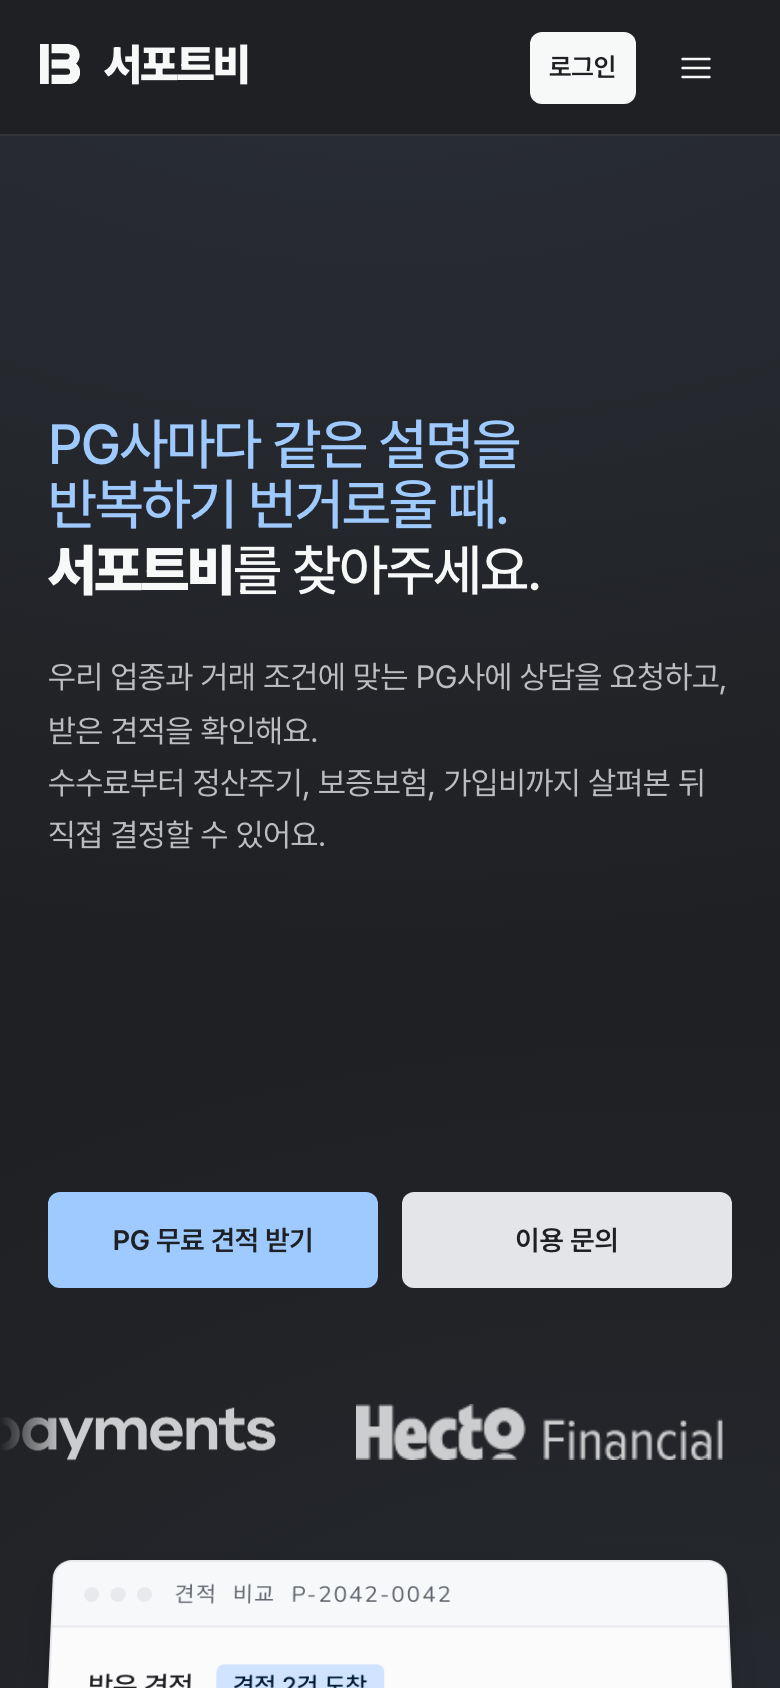
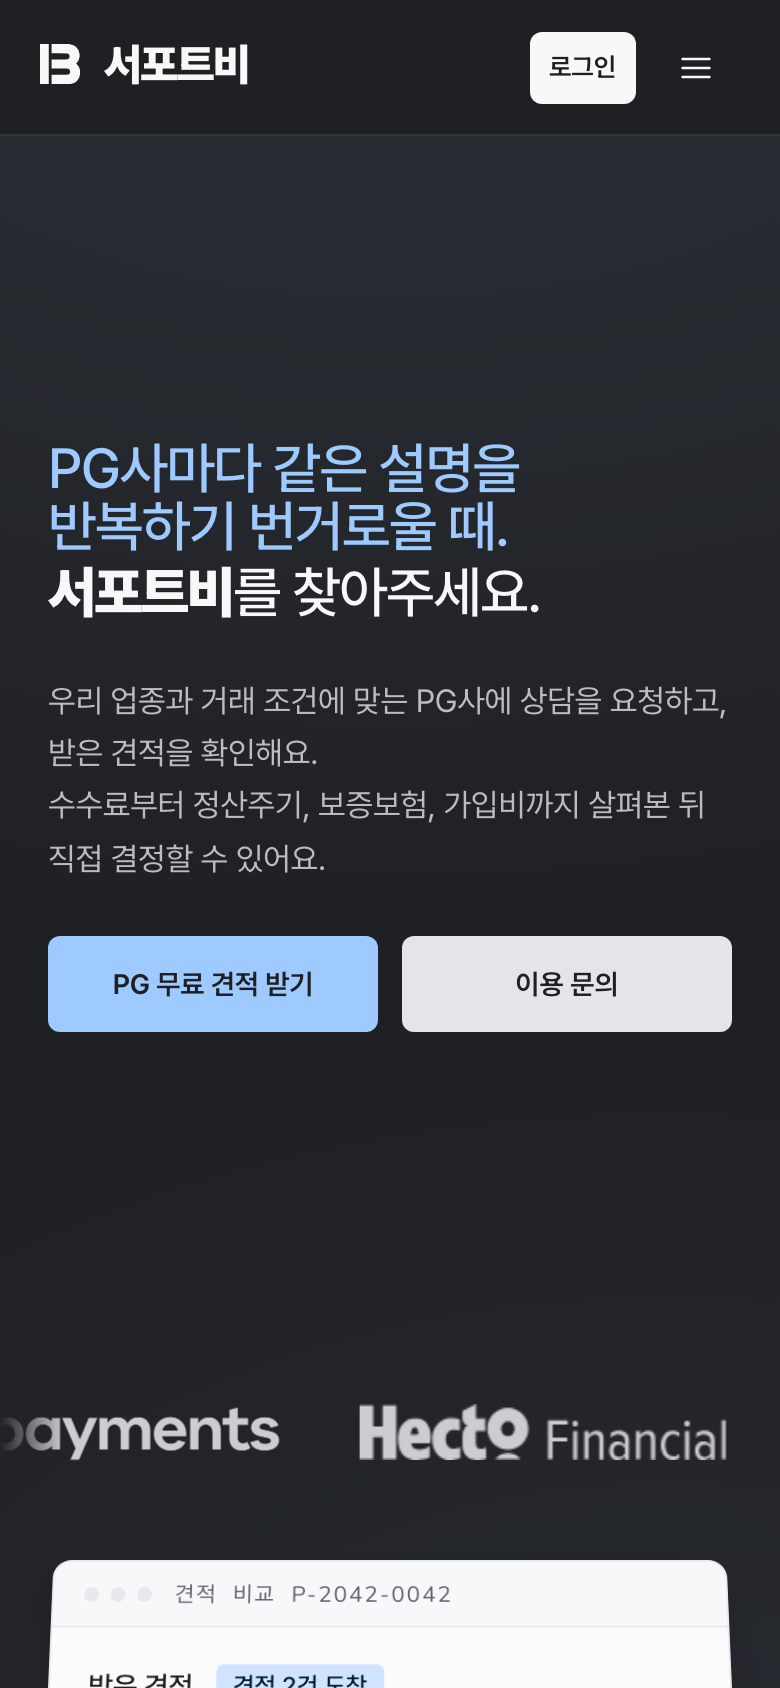
fix(landing): restore original hero action placement

diff --git a/components/landing/hero/HeroPinnedScene.tsx b/components/landing/hero/HeroPinnedScene.tsx
@@ -34,8 +34,6 @@ export type HeroContent = {
   headline?: ReactNode;
   subCopy?: ReactNode;
   cta?: ReactNode;
-  /** 구매사는 제목·설명 아래에 별도 CTA 띠를, PG는 기존 인라인 CTA를 사용한다. */
-  ctaPlacement?: 'inline' | 'below-content';
   productWindow?: ReactNode;
   /** 제품 창 바로 위 리드 카피(선택). 라이트 리빌 때 창과 함께 페이드+라이즈로 자리잡는다.
    *  PG 히어로만 주입 — 구매사 히어로는 미지정(렌더 안 함). */
@@ -67,7 +65,6 @@ export function HeroPinnedScene({
   headline = <HeroKineticHeadline rollingPosition="before" />,
   subCopy = BUYER_SUBCOPY,
   cta = BUYER_CTA,
-  ctaPlacement = 'inline',
   productWindow = <HeroProductWindow />,
   productLead,
   partners,
@@ -156,25 +153,6 @@ export function HeroPinnedScene({
   const cueOpacity = useTransform(scrollYProgress, [0, 0.06, 1], [1, 0, 0]);
 
   const [magnetRef, magnetX, magnetY] = useMagneticHover<HTMLSpanElement>(6);
-  const ctaBlock = (
-    <motion.div
-      style={{ y: ctaY, opacity: ctaOpacity, pointerEvents: ctaPointerEvents }}
-      className={ctaPlacement === 'below-content' ? styles.actionBar : undefined}
-    >
-      <motion.div
-        initial={{ opacity: 0 }}
-        animate={{ opacity: 1 }}
-        transition={{ duration: 0.36, delay: 0.5, ease: EASE_OUT }}
-        className={ctaPlacement === 'below-content' ? styles.actionBarInner : 'flex flex-col items-start gap-[var(--s-4)]'}
-      >
-        {ctaPlacement === 'below-content' ? cta : (
-          <motion.span ref={magnetRef} style={{ x: magnetX, y: magnetY }} className="inline-block">
-            {cta}
-          </motion.span>
-        )}
-      </motion.div>
-    </motion.div>
-  );
 
   // 헤더 톤 스위치 — 다크 레이어 페이드(0.55–0.85) 중간점을 지나면 헤더가 라이트 톤으로 복귀.
   // 마운트 직후 동기화가 있어 앵커 딥링크(#pricing 등)로 진입해도 헤더가 올바른 톤에서 시작한다.
@@ -225,10 +203,23 @@ export function HeroPinnedScene({
             </motion.p>
           </motion.div>
 
-          {ctaPlacement === 'inline' && ctaBlock}
+          <motion.div style={{ y: ctaY, opacity: ctaOpacity, pointerEvents: ctaPointerEvents }}>
+            <motion.div
+              initial={{ opacity: 0 }}
+              animate={{ opacity: 1 }}
+              transition={{ duration: 0.36, delay: 0.5, ease: EASE_OUT }}
+              className="flex flex-col items-start gap-[var(--s-4)]"
+            >
+              <motion.span
+                ref={magnetRef}
+                style={{ x: magnetX, y: magnetY }}
+                className="inline-block w-full sm:w-auto"
+              >
+                {cta}
+              </motion.span>
+            </motion.div>
+          </motion.div>
         </div>
-
-        {ctaPlacement === 'below-content' && ctaBlock}
 
         {partners ? (
           <>

diff --git a/components/landing/hero/HeroPinnedScene.module.css b/components/landing/hero/HeroPinnedScene.module.css
@@ -8,18 +8,6 @@
   gap: clamp(16px, 3svh, 32px);
 }
 .partners { width: 100%; pointer-events: auto; }
-.actionBar {
-  position: relative;
-  z-index: 20;
-  flex-shrink: 0;
-  width: 100%;
-}
-.actionBarInner {
-  width: 100%;
-  max-width: 1080px;
-  margin-inline: auto;
-  padding: 32px;
-}
 .actions { display: flex; gap: 24px; }
 .primaryAction {
   display: inline-flex;
@@ -47,7 +35,6 @@
 }
 @media (max-width: 767px) {
   .withPartners .content { padding-left: 24px; padding-right: 24px; }
-  .actionBarInner { padding: 24px; }
 }
 @media (max-width: 639px) {
   .actions { gap: 12px; }

diff --git a/components/landing/LandingHero.tsx b/components/landing/LandingHero.tsx
@@ -54,7 +54,7 @@ export function LandingHero({ nav }: { nav?: ReactNode }) {
       <main className="flex-1 pt-[var(--landing-header-height)]">
 
         {/* ── Hero (client: 타이핑·애니메이션·landing-scroll 이펙트) ── */}
-        <LandingHeroSection ctaPlacement="below-content" partners={<LandingPartnerMarquee />} />
+        <LandingHeroSection partners={<LandingPartnerMarquee />} />
 
         {/* ── Problem: 세로 질문을 읽으며 현재 위치 강조 ── */}
         <section className={sectionCls}>

diff --git a/components/landing/__tests__/LandingHeroSection.test.tsx b/components/landing/__tests__/LandingHeroSection.test.tsx
@@ -34,7 +34,7 @@ describe('LandingHeroSection', () => {
     const previous = window.ChannelIO;
     window.ChannelIO = showMessenger;
     try {
-      render(<LandingHeroSection ctaPlacement="below-content" />);
+      render(<LandingHeroSection />);
       fireEvent.click(screen.getByRole('button', { name: '이용 문의' }));
       expect(showMessenger).toHaveBeenCalledWith('showMessenger');
       expect(screen.queryByRole('link', { name: '데모 체험하기' })).not.toBeInTheDocument();

diff --git a/SCREEN_DESIGN.md b/SCREEN_DESIGN.md
@@ -134,9 +134,9 @@ Admin console (별도 저장소 `admin-supporter-b`, admin.support-b.com, app/(p
 
 별도 관리자 `/agreement-rates`는 PG별 표준 수수료 기준 편집 화면이다. 앱의 `GET /api/signing/agreements/:id/document`는 권한 검증된 실제 PDF 미리보기·보낸 문서 조회 전용이다.
 
-**공개 랜딩 히어로 (2026-10-09, 2026-10-19 문구 길이·데스크톱 폭 수정)**: `HeroKineticHeadline`은 고정 브랜드 문장과 독립된 롤링 강조 줄을 하나의 h1으로 제공한다. 구매사는 롤링 문구 → 고정 문장 `서포트비를 찾아주세요.` 순서로 표시하고 읽는다. 롤링 문구는 `PG사마다 같은 설명을 반복하기 번거로울 때.` → `받은 견적이 회사에 유리한지 판단이 어려울 때.` → `우리 서비스가 PG사에 가입이 될지 막막할 때.` → `결제 오픈 전까지 무엇부터 준비할지 고민될 때.` 순서로 순환한다. 네 문구는 길이(공백 포함 26자)와 줄바꿈 조각(두 조각으로 균등 분할)을 맞춰, 같은 화면 폭에서 유독 짧은 문구만 줄바꿈 위치가 어긋나 보이는 것을 줄였다. 기존 제목 크기와 브랜드 글꼴 강조를 유지하며 화면 폭에 따라 의미 단위 사이에서 줄바꿈한다. `번거로울 때.`·`어려울 때.`·`막막할 때.`·`고민될 때.`의 끝맺음은 같은 줄에 두어 `때.`만 떨어지지 않게 한다. PG는 기존 문구와 고정 브랜드 문장 → 롤링 강조 줄 순서를 유지한다. 강조 영역은 전체 문구의 높이를 예약하여 아래 설명과 CTA가 움직이지 않는다. 롤링은 띄어쓰기와 의미 단위 줄바꿈을 유지하면서 첫 글자부터 마지막 글자까지 30ms 시차로 진행한다. 각 글자는 620ms 동안 부드럽게 가속·감속하며, 마지막 글자가 정착한 뒤 다음 문구의 읽기 대기 시간을 시작한다. **데스크톱 폭(롤링 줄 전용)**: 1920px 미만에서는 롤링 줄도 다른 줄과 같은 1080px 칼럼 폭(최대 1016px)에 묶여 네 문구 모두 항상 두 줄로 보인다. 1920px 이상에서는 롤링 줄만 그 칼럼을 넘어 뷰포트 오른쪽 32px 여백까지 늘어나(`calc(100vw - max(2rem, (100vw - 1080px)/2 + 2rem) - 2rem)`) 네 문구 모두 항상 한 줄로 보인다. 중간값에서 서서히 넓히는 램프가 아니라 1920px 단일 지점에서 전환하는 계단형이다 — 네 문구의 폭이 서로 달라(이 글꼴 크기에서 두 조각 합산 약 1232~1276px) 매끈한 램프는 더 좁은 문구가 먼저 한 줄로 붙고 가장 넓은 문구는 여전히 두 줄로 남는 혼재 구간(실측 약 1512~1600px, 흔한 노트북 해상도와 겹친다)을 만들기 때문이다. 문구를 바꾸면 이 폭·breakpoint 가정도 다시 확인한다. 구매사 보조 설명은 현재의 맞춤 PG 상담과 견적 확인·최종 선택을 안내한다. 구매사 첫 화면의 제목·설명은 가로 왼쪽 정렬을 유지하면서 헤더 하단과 CTA 영역 상단 사이의 세로 중앙에 배치한다. 헤더 높이를 제외한 위아래 여백을 균등하게 나누고 각각 최소 32px(화면 높이 700px 이하는 24px)을 확보한다. 짧은 화면에서는 소개 묶음의 자연 높이를 유지해 일반 스크롤로 이어진다. 카피 근거와 검증 가설은 `docs/HERO_COPY_RESEARCH_2026-10-09.md`를 참조한다. 구매사 히어로의 도입 문의 영역은 `PG 수수료 협의나 가입 심사가 막막한가요?`와 `채팅으로 문의해요` 버튼을 함께 표시한다. 랜딩의 `ConsultButton`은 `href`가 없을 때 `window.ChannelIO`가 있으면 채널톡 메신저를 열고, 없으면 `siteConfig.operator.email`로 이메일 작성을 연다. 이메일 전송은 사용자가 이메일 앱에서 완료하며, `href`가 지정된 버튼은 해당 링크로 이동한다.
+**공개 랜딩 히어로 (2026-10-09, 2026-10-19 문구 길이·데스크톱 폭 수정)**: `HeroKineticHeadline`은 고정 브랜드 문장과 독립된 롤링 강조 줄을 하나의 h1으로 제공한다. 구매사는 롤링 문구 → 고정 문장 `서포트비를 찾아주세요.` 순서로 표시하고 읽는다. 롤링 문구는 `PG사마다 같은 설명을 반복하기 번거로울 때.` → `받은 견적이 회사에 유리한지 판단이 어려울 때.` → `우리 서비스가 PG사에 가입이 될지 막막할 때.` → `결제 오픈 전까지 무엇부터 준비할지 고민될 때.` 순서로 순환한다. 네 문구는 길이(공백 포함 26자)와 줄바꿈 조각(두 조각으로 균등 분할)을 맞춰, 같은 화면 폭에서 유독 짧은 문구만 줄바꿈 위치가 어긋나 보이는 것을 줄였다. 기존 제목 크기와 브랜드 글꼴 강조를 유지하며 화면 폭에 따라 의미 단위 사이에서 줄바꿈한다. `번거로울 때.`·`어려울 때.`·`막막할 때.`·`고민될 때.`의 끝맺음은 같은 줄에 두어 `때.`만 떨어지지 않게 한다. PG는 기존 문구와 고정 브랜드 문장 → 롤링 강조 줄 순서를 유지한다. 강조 영역은 전체 문구의 높이를 예약하여 아래 설명과 CTA가 움직이지 않는다. 롤링은 띄어쓰기와 의미 단위 줄바꿈을 유지하면서 첫 글자부터 마지막 글자까지 30ms 시차로 진행한다. 각 글자는 620ms 동안 부드럽게 가속·감속하며, 마지막 글자가 정착한 뒤 다음 문구의 읽기 대기 시간을 시작한다. **데스크톱 폭(롤링 줄 전용)**: 1920px 미만에서는 롤링 줄도 다른 줄과 같은 1080px 칼럼 폭(최대 1016px)에 묶여 네 문구 모두 항상 두 줄로 보인다. 1920px 이상에서는 롤링 줄만 그 칼럼을 넘어 뷰포트 오른쪽 32px 여백까지 늘어나(`calc(100vw - max(2rem, (100vw - 1080px)/2 + 2rem) - 2rem)`) 네 문구 모두 항상 한 줄로 보인다. 중간값에서 서서히 넓히는 램프가 아니라 1920px 단일 지점에서 전환하는 계단형이다 — 네 문구의 폭이 서로 달라(이 글꼴 크기에서 두 조각 합산 약 1232~1276px) 매끈한 램프는 더 좁은 문구가 먼저 한 줄로 붙고 가장 넓은 문구는 여전히 두 줄로 남는 혼재 구간(실측 약 1512~1600px, 흔한 노트북 해상도와 겹친다)을 만들기 때문이다. 문구를 바꾸면 이 폭·breakpoint 가정도 다시 확인한다. 구매사 보조 설명은 현재의 맞춤 PG 상담과 견적 확인·최종 선택을 안내한다. 구매사 첫 화면의 제목·설명·CTA 전체는 가로 왼쪽 정렬을 유지하면서 헤더 하단과 제휴 PG사 로고 띠 상단 사이의 세로 중앙에 배치한다. 헤더 높이를 제외한 위아래 여백을 균등하게 나누고 각각 최소 32px(화면 높이 700px 이하는 24px)을 확보한다. 짧은 화면에서는 소개 묶음의 자연 높이를 유지해 일반 스크롤로 이어진다. 카피 근거와 검증 가설은 `docs/HERO_COPY_RESEARCH_2026-10-09.md`를 참조한다. 구매사 히어로의 도입 문의 영역은 `PG 수수료 협의나 가입 심사가 막막한가요?`와 `채팅으로 문의해요` 버튼을 함께 표시한다. 랜딩의 `ConsultButton`은 `href`가 없을 때 `window.ChannelIO`가 있으면 채널톡 메신저를 열고, 없으면 `siteConfig.operator.email`로 이메일 작성을 연다. 이메일 전송은 사용자가 이메일 앱에서 완료하며, `href`가 지정된 버튼은 해당 링크로 이동한다.
 
-**구매사 랜딩 상단 CTA (2026-11-17)**: 헤더는 섹션 메뉴와 로그인(인증 시 앱 이동)을 유지하고 `맞춤 견적 받기`를 제거한다. 제목·설명 아래의 기존 히어로 배경 위에 별도 배경이나 구분선 없이 버튼만 두고, 콘텐츠 왼쪽 기준선에 `PG 무료 견적 받기`와 `이용 문의`를 같은 높이로 나란히 배치한다. 주요 버튼은 기존 히어로의 브랜드 블루, 문의 버튼은 회색 표면을 사용한다. 모바일에서도 두 버튼을 같은 너비로 배치한다. 견적 링크는 기존 인증 상태에 따라 비회원 `/quote-start`, 회원 `/rfp-create`로 이동한다. 문의는 기존 `ConsultButton`의 채널톡·이메일 대체 동작을 사용한다. 히어로의 `데모 체험하기` 버튼을 제거하며, 기존 제목·설명·스크롤 연출·제휴 PG사 띠·본문 데모와 PG 랜딩은 유지한다. 첨부 와이어프레임의 X 표시는 배너 영역으로 해석하며 실제 X 표시나 새 배너 이미지는 추가하지 않는다.
+**구매사 랜딩 상단 CTA (2026-11-17)**: 헤더는 섹션 메뉴와 로그인(인증 시 앱 이동)을 유지하고 `맞춤 견적 받기`를 제거한다. CTA는 제목·설명과 같은 콘텐츠 묶음 안에서 기존 버튼과 동일하게 설명 문구 바로 아래에 배치한다. 기존 반응형 간격과 왼쪽 정렬을 유지하며 별도 배경·구분선·하단 배치 영역을 추가하지 않는다. 콘텐츠 왼쪽 기준선에 `PG 무료 견적 받기`와 `이용 문의`를 같은 높이로 나란히 배치한다. 주요 버튼은 기존 히어로의 브랜드 블루, 문의 버튼은 회색 표면을 사용한다. 모바일에서도 두 버튼을 같은 너비로 배치한다. 견적 링크는 기존 인증 상태에 따라 비회원 `/quote-start`, 회원 `/rfp-create`로 이동한다. 문의는 기존 `ConsultButton`의 채널톡·이메일 대체 동작을 사용한다. 히어로의 `데모 체험하기` 버튼을 제거하며, 기존 제목·설명·스크롤 연출·제휴 PG사 띠·본문 데모와 PG 랜딩은 유지한다. 첨부 와이어프레임의 X 표시는 배너 영역으로 해석하며 실제 X 표시나 새 배너 이미지는 추가하지 않는다.
 
 **히어로 H1 초기 표시와 중복 제거 (2026-11-09)**: 구매사·PG의 기존 문구와 읽기 순서는 유지한다. 첫 HTML에는 첫 순환 문구와 고정 브랜드 문장을 단어 단위의 텍스트로 한 번씩 제공하며, JS를 실행하지 않아도 제목이 보인다. 제목 전체를 아래로 숨겼다가 올리는 진입 효과는 제거하고, JS 준비 후 기존 글자별 순환만 시작한다. 문구별 크기 예약 요소는 H1 밖의 형제 요소에 두고 같은 grid 행을 공유해 제목 높이와 설명·CTA 위치를 유지한다. 글자별 복사본과 스크린리더용 문장은 실제 전환 중에만 만들고, 정착하면 다시 한 벌의 읽을 수 있는 텍스트로 돌아온다. 첫 문구·정착 문구에 불필요한 `aria-live`는 추가하지 않는다.
 

diff --git a/docs/screenshots/landing-hero-actions-2026-11-17/README.md b/docs/screenshots/landing-hero-actions-2026-11-17/README.md
@@ -7,6 +7,6 @@
 - 비로그인 첫 화면이며 운영 계정이나 고객 데이터를 사용하지 않았다.
 - 기본 라이트 테마의 기존 다크 히어로 씬이다. 제목의 순환 문구는 캡처 시점에 따라 다르다.
 - 스크린샷에서는 Next.js 개발 도구 표시만 숨겼다. 제품 콘텐츠와 스타일은 수정하지 않았다.
-- 배너의 제목·설명·스크롤 연출은 유지하고, 별도 배경이나 구분선 없이 기존 히어로 배경 위에 견적·문의 버튼만 배치했다.
+- 배너의 제목·설명·스크롤 연출은 유지하고, 별도 배경이나 구분선 없이 기존 히어로의 설명 문구 바로 아래, 원래 버튼 위치에 견적·문의 버튼을 배치했다.
 
 이 이미지는 화면 확인 자료이며 실제 견적 제출이나 GA4 수신 증빙은 아니다.
